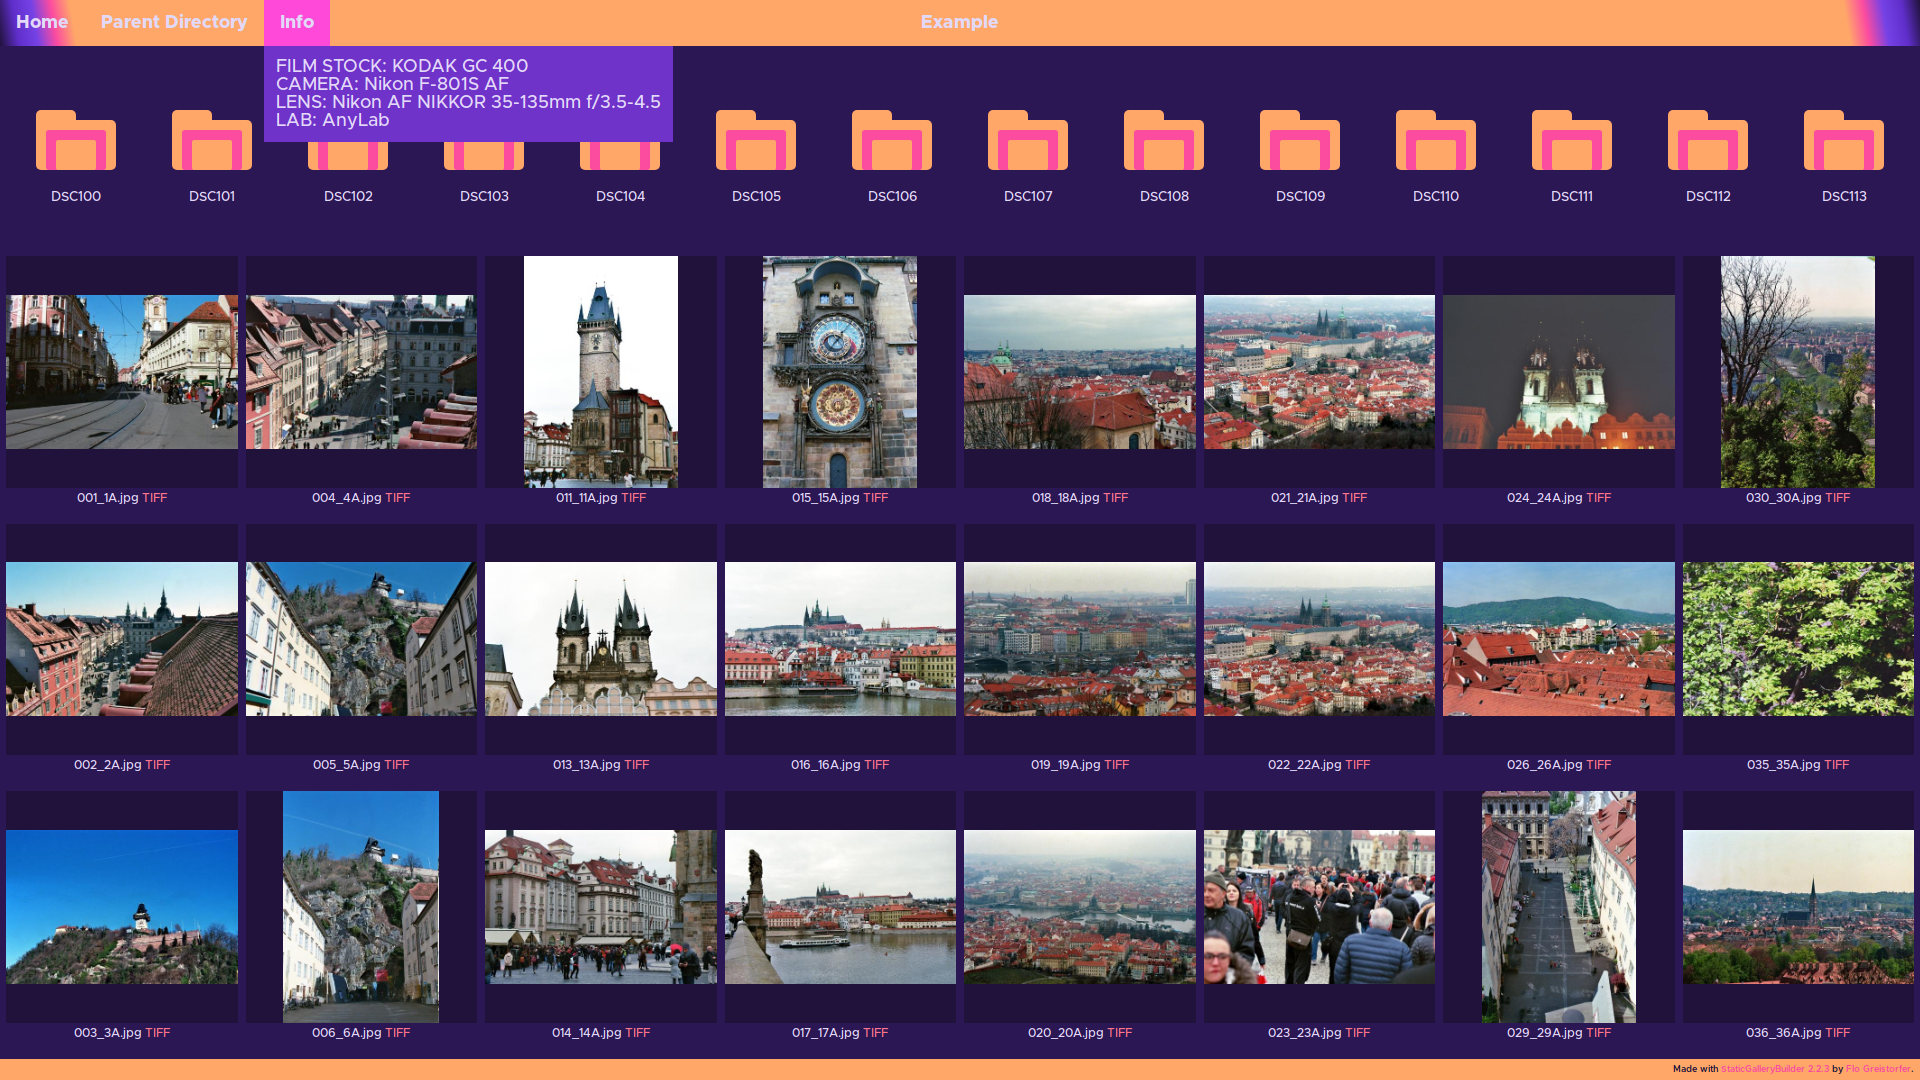
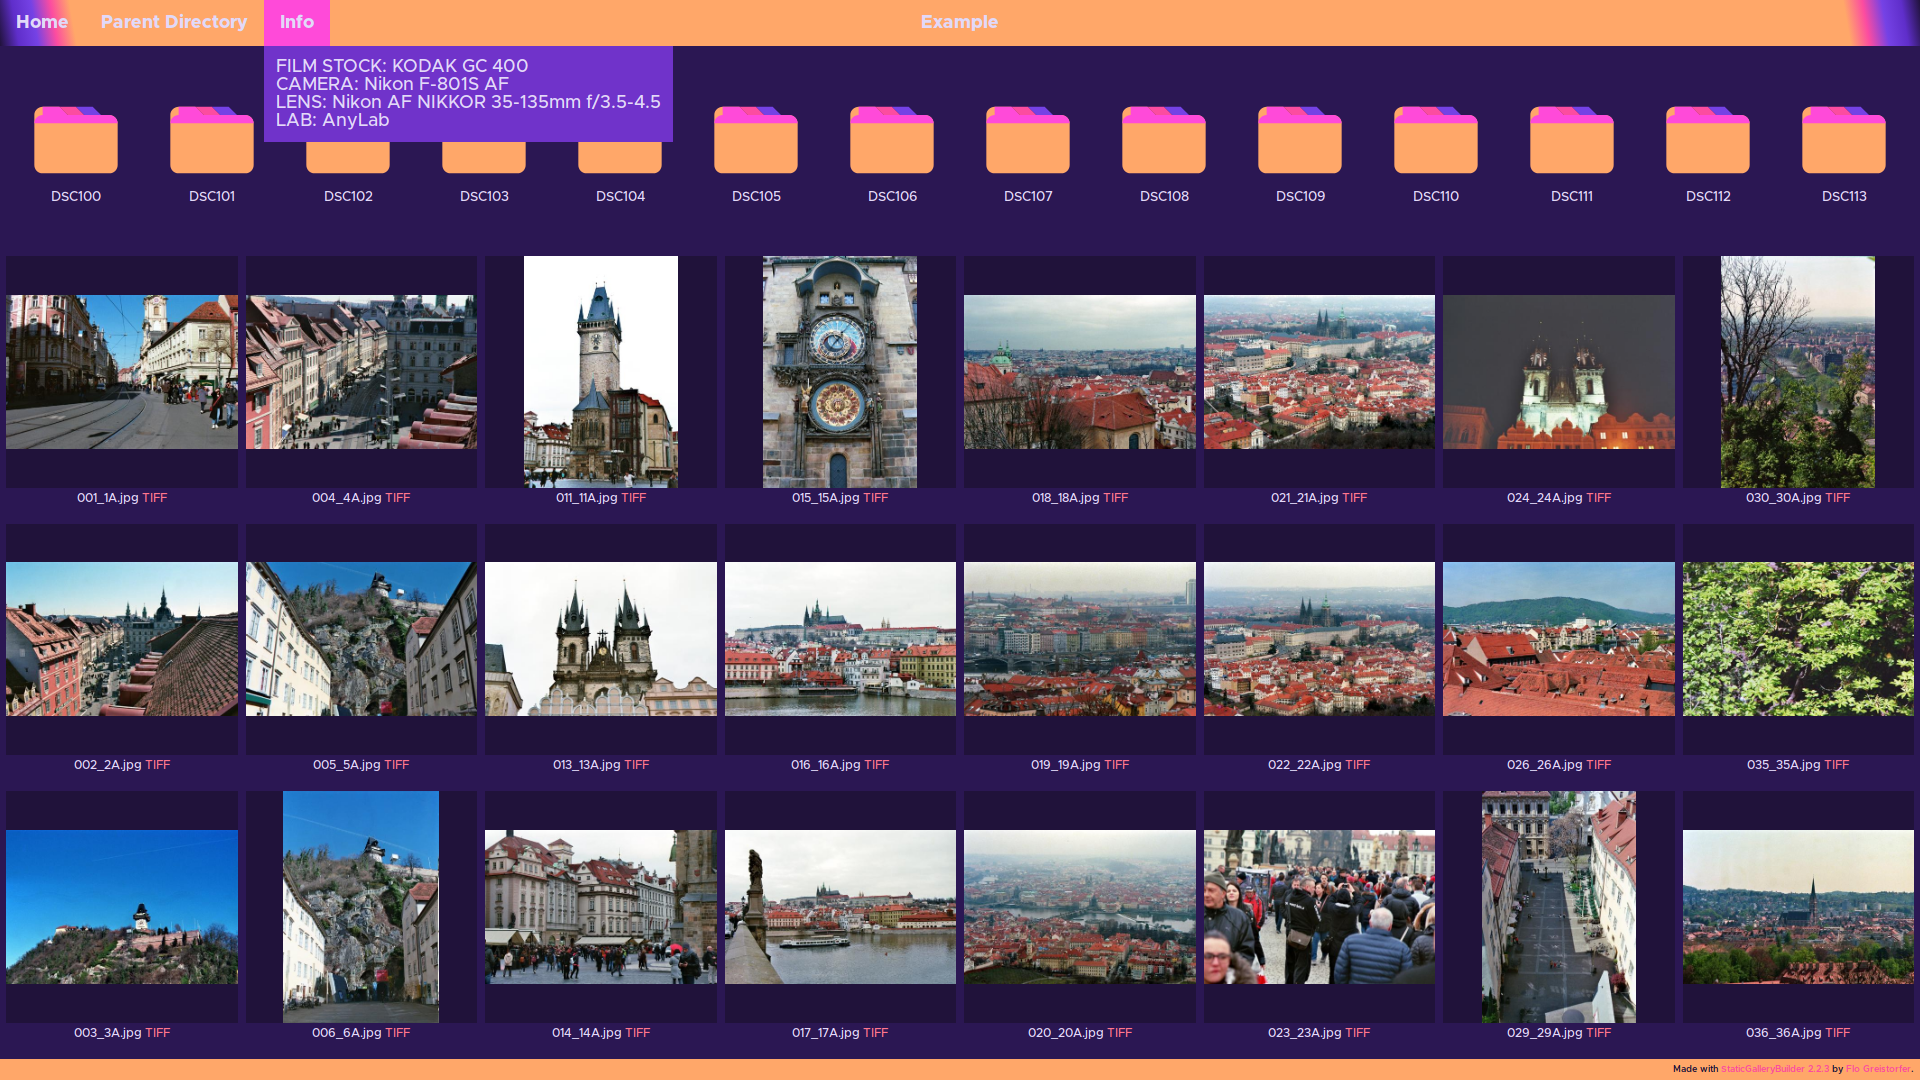
updated foldericons for alpenglow

diff --git a/alpenglow.css b/alpenglow.css
@@ -2,17 +2,17 @@
 
 * {
   --color1: #FFA769;
-  --color2: #FF778E;
-  --color3: #FF4AD9;
-  --color4: #FC4CA0;
-  --color5: #7542E5;
+  --color2: #FC4CA0;
+  --color3: #7542E5;
+  --color4: #FF4AD9;
+  --color5: #FF778E;
   --color6: #ffe7ea;
   --color7: #5F2ECA;
   --bcolor1: #e2d9f8;
   --bcolor2: #20123b;
   --bcolor3: #2B1753;
   --bcolor4: #321C64;
-  --gradient: linear-gradient(80deg, var(--bcolor2) 0%, var(--color5) 1%, var(--color3) 2%, var(--color2) 3%, var(--color1) 4%, var(--color1) 96%, var(--color2) 97%, var(--color3) 98%, var(--color5) 99%, var(--bcolor2) 100%);
+  --gradient: linear-gradient(80deg, var(--bcolor2) 0%, var(--color3) 1%, var(--color4) 2%, var(--color5) 3%, var(--color1) 4%, var(--color1) 96%, var(--color5) 97%, var(--color4) 98%, var(--color3) 99%, var(--bcolor2) 100%);
 }
 
 body {
@@ -27,7 +27,7 @@ body {
 .navbar {
   font-weight: 800;
   color: var(--bcolor2);
-  background-color: var(--color2);
+  background-color: var(--color5);
   background-image: var(--gradient);
 }
 
@@ -38,7 +38,7 @@ body {
 
 .navbar li a:hover {
   text-decoration: none;
-  background-color: var(--color4);
+  background-color: var(--color2);
 }
 
 .footer {
@@ -48,7 +48,7 @@ body {
 }
 
 .footer a {
-  color: var(--color2);
+  color: var(--color5);
   text-decoration: none;
 }
 
@@ -57,7 +57,7 @@ body {
 }
 
 .foldericon {
-  content: "themes/icons/subfolder.svg.j2";
+  content: "themes/icons/catpuccin.svg.j2";
 }
 
 .folders a {
@@ -83,7 +83,7 @@ body {
 .tooltiptext {
   font-weight: 500;
   color: var(--bcolor1);
-  background-color: var(--color5);
+  background-color: var(--color3);
 }
 
 .column img {
@@ -91,11 +91,11 @@ body {
 }
 
 #totop:hover {
-  background-color: var(--color5);
+  background-color: var(--color3);
 }
 
 #totop {
-  background-color: var(--color4);
+  background-color: var(--color2);
   color: var(--bcolor2);
   font-weight: 600;
 }

diff --git a/catpuccin.css b/catpuccin.css
@@ -2,21 +2,13 @@
 
 * {
   --color1: #F28FAD;
-  /* Pink */
   --color2: #ABE9B3;
-  /* Green */
   --color3: #FAE3B0;
-  /* Yellow */
   --color4: #96CDFB;
-  /* Blue */
   --bcolor1: #F5E0DC;
-  /* Rosewater */
   --bcolor2: #575268;
-  /* Dark surface */
   --bcolor3: #D9E0EE;
-  /* Surface */
   --bcolor4: #C9CBFF;
-  /* Mauve */
 }
 
 .navbar {
@@ -56,7 +48,7 @@
 }
 
 .foldericon {
-  content: "themes/icons/catpuccin.svg";
+  content: "themes/icons/catpuccin.svg.j2";
 }
 
 .folders a {

diff --git a/alpenglow-dark.css b/alpenglow-dark.css
@@ -57,7 +57,7 @@ body {
 }
 
 .foldericon {
-  content: "themes/icons/subfolder.svg.j2";
+  content: "themes/icons/catpuccin.svg.j2";
 }
 
 .folders a {
